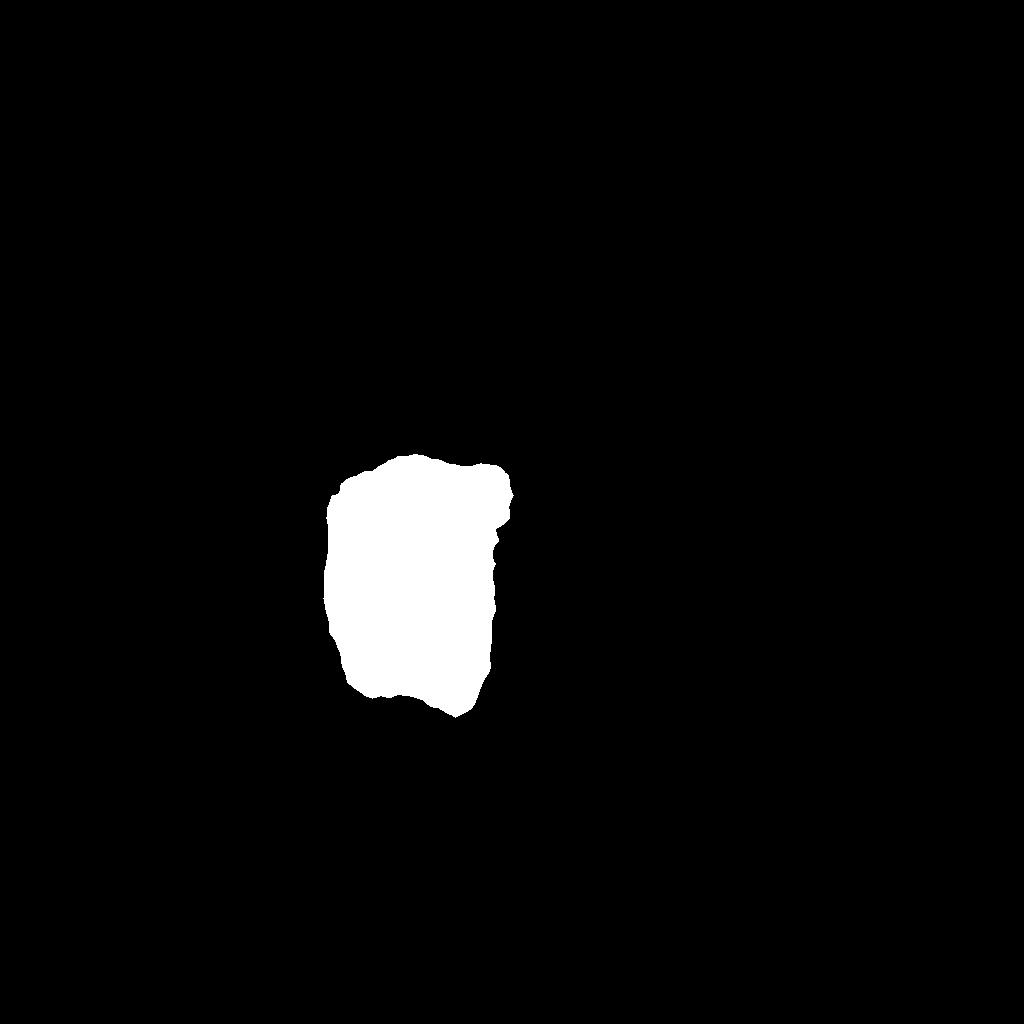
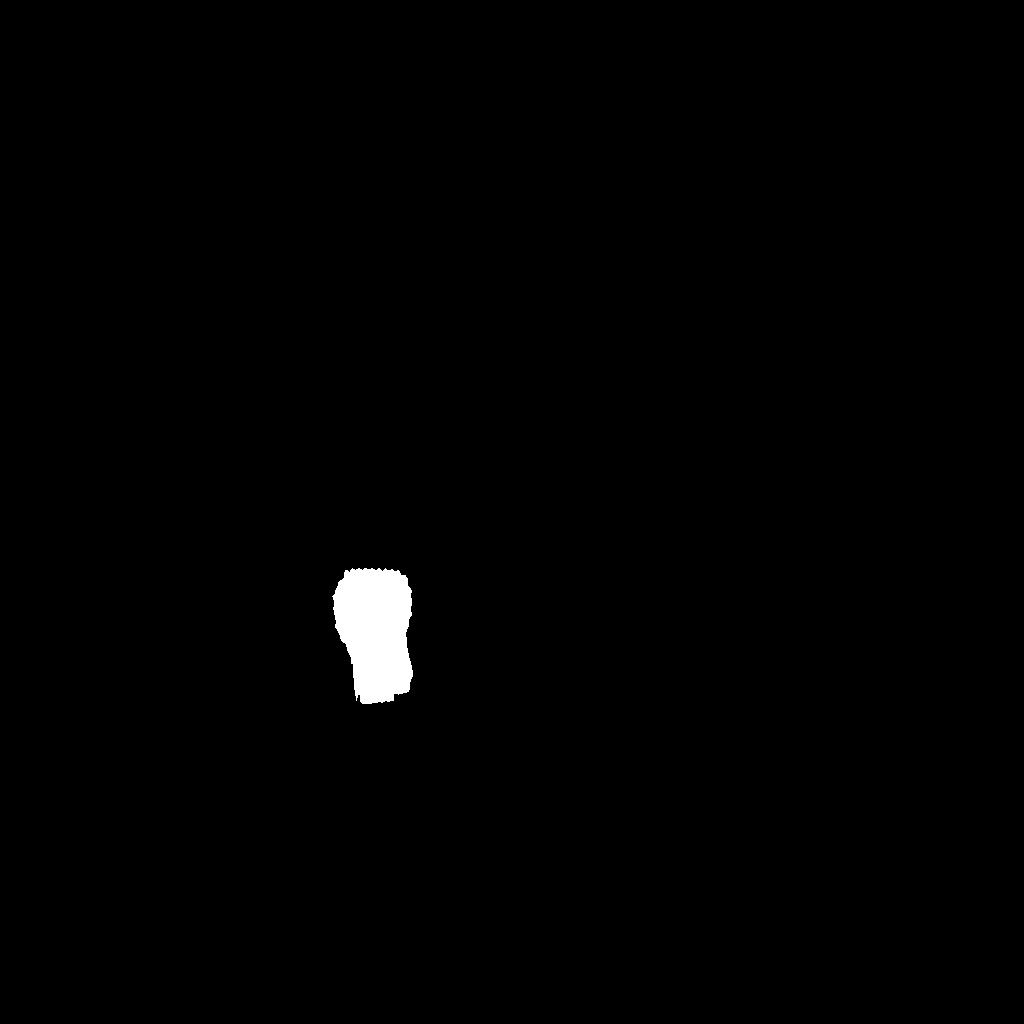
RGB fixed

Changed region(s): [[0.3125, 0.4375, 0.5, 0.7188]]

diff --git a/masks_for_lab.py b/masks_for_lab.py
@@ -102,13 +102,13 @@ if g_param.work_place == "field":
         STEPS_PER_EPOCH = 30
 
         # Skip detections with < 90% confidence
-        DETECTION_MIN_CONFIDENCE = 0.9
+        DETECTION_MIN_CONFIDENCE = 0.7
 
         DETECTION_MAX_INSTANCES = 40
 
         MASK_SHAPE = [28, 28]
-        # very importent to defince corect!!!!!
-        BACKBONE = "resnet101"
+        # very important to define correctly!!!!!
+        BACKBONE = "resnet50"
 
         BACKBONE_STRIDES = [4, 8, 16, 32, 64]
 
@@ -231,7 +231,7 @@ if g_param.work_place == "field":
     # weights_path = '/content/gdrive/My Drive/grapes data/Mask_RCNN-master/mask_rcnn_coco.h5'
     # weights_path = model.find_last()
     # print(weights_path)
-    model.load_weights('C:\Drive\Mask_RCNN-master\logs_to_import\with_santos\la\mask_rcnn_grape_0080.h5')
+    model.load_weights(r'C:\Drive\Mask_RCNN-master\logs_to_import\exp_7\mask_rcnn_grape_0080.h5')
     # train (model)
 
 
@@ -267,31 +267,20 @@ if g_param.work_place == "field":
         return ax
 
 
-    dataset_val = GrapeDataset()
-    dataset_val.load_grape('C:\Drive\Mask_RCNN-master\samples\grape\dataset', "val")
-    dataset_val.prepare()
+    # dataset_val = GrapeDataset()
+    # dataset_val.load_grape('C:\Drive\Mask_RCNN-master\samples\grape\dataset', "val")
+    # dataset_val.prepare()
 
-    print("Images: {}\nClasses: {}".format(len(dataset_val.image_ids), dataset_val.class_names))
+    # print("Images: {}\nClasses: {}".format(len(dataset_val.image_ids), dataset_val.class_names))
     classes = []
     classes.append('BG')
     classes.append('grape_cluster')
 
     import tensorflow as tf
-
     with tf.device("/cpu:0"):
         model = modellib.MaskRCNN(mode="inference", model_dir=MODEL_DIR, config=config)
 
-    # Set path to balloon weights file
-
-    # Download file from the Releases page and set its path
-    # https://github.com/matterport/Mask_RCNN/releases
-    # weights_path = "/path/to/mask_rcnn_balloon.h5"
-
-    # Or, load the last model you trained
-    # weights_path = model.find_last()
     weights_path = 'C:\Drive\Mask_RCNN-master\logs_to_import\with_santos\la\mask_rcnn_grape_0080.h5'
-
-    # Load weights
     print("Loading weights ", weights_path)
     model.load_weights(weights_path, by_name=True)
 
@@ -800,10 +789,8 @@ def ueye_take_picture_2(image_number):
     nRet = ueye.is_InquireImageMem(hCam, pcImageMemory, MemID, width, height, nBitsPerPixel, pitch)
 
     # ---------------------------------------------------------------------------------------------------------------------------------------
-
     # Continuous image display
-    if (nRet == ueye.IS_SUCCESS):
-
+    if nRet == ueye.IS_SUCCESS:
         # In order to display the image in an OpenCV window we need to...
         # ...extract the data of our image memory
         pic_array_1 = ueye.get_data(pcImageMemory, width, height, nBitsPerPixel, pitch, copy=False)
@@ -852,7 +839,8 @@ def ueye_take_picture_2(image_number):
         # plt.imsave(a_string, frame)
         # break
     # ---------------------------------------------------------------------------------------------------------------------------------------
-
+    else:
+        print("no image was taken")
     # Releases an image memory that was allocated using is_AllocImageMem() and removes it from the driver management
     ueye.is_FreeImageMem(hCam, pcImageMemory, MemID)
 
@@ -967,7 +955,7 @@ def meter_2_pixel(d, i):
 
 def print_special():
     """
-    :return: print red wernning massege if no real image was taken in N iterations
+    :return: print red warnning massege if no real image was taken in N iterations
     """
 
     print(colored("3 images in a row were not taken succsesfully", 'red'))
@@ -1085,7 +1073,7 @@ def take_picture_and_run():
 
     # fOR FIELD simulation in lab
     if g_param.work_place == "field":
-        image_path = r'C:\Drive\Mask_RCNN-master\samples\grape\dataset\test\DSC_0159.JPG'
+        image_path = r'C:\Drive\Mask_RCNN-master\samples\grape\dataset\test\DSC_0217.JPG'
 
     img = cv.imread(image_path)
     # img = cv.resize(img, (1024, 692))  # Resize image if needed
@@ -1204,6 +1192,7 @@ def take_picture_and_run():
 
     # for field usage with net
     if g_param.work_place == "field":
+        config.display()
         im0 = rgb
         im0, window, scale, padding, crop = utils.resize_image(
             im0,
@@ -1216,8 +1205,9 @@ def take_picture_and_run():
             g_param.read_write_object.save_rgb_image(im0)
         img = im0
         arr = [im0]
-        cv.imshow("check image", img)
-        cv.waitKey()
+        show_in_moved_window("check image", img)
+        # cv.imshow("check image", img)
+        # cv.waitKey()
         cv.destroyAllWindows()
         # use THE MASK R-CNN for real grapes: next 93 lines
         results = model.detect(arr, verbose=1)
@@ -1235,7 +1225,7 @@ def take_picture_and_run():
                                         title="Predictions")
         else:
             print("There was no grapes detected in the capturd image.")
-            im1 = cv.imread('C:/Drive/28_7_20/DSC_0159.JPG')
+            im1 = cv.imread(r'C:\Drive\Mask_RCNN-master\samples\grape\dataset\train\DSC_0161.JPG')
             im1 = cv.cvtColor(im1, cv.COLOR_BGR2RGB)
             im1, window, scale, padding, crop = utils.resize_image(
                 im1,
@@ -1344,10 +1334,10 @@ def take_picture_and_run():
 
     if g_param.work_place == "lab":
         display_image_with_masks(green)
-        print("boxes", boxes)
+        # print("boxes", boxes)
         # using the TB
         box_index = sort_by_and_check_for_grapes('rect_size')
-        print("box_index", box_index)
+        # print("box_index", box_index)
         add_circle_and_index(img, green)
         cv.waitKey(0)
         cv.destroyAllWindows()
@@ -1355,8 +1345,6 @@ def take_picture_and_run():
     else:
         g_param.masks_image = img
     g_param.read_write_object.write_tb()
-
-
 
 
 if __name__ == '__main__':

diff --git a/main.py b/main.py
@@ -473,7 +473,7 @@ def move_platform():
     if g_param.process_type == "record" or g_param.process_type == "work":
         print("Current platform step size: ", g_param.platform_step_size, '\n',
               "insert number in CM to change it or press Enter to continue")
-        temp_step_size = input("Enter platform step size") #TODO : UNCOMMENT
+        # temp_step_size = input("Enter platform step size") #TODO : UNCOMMENT
         if temp_step_size == 'end':
             external_signal_all_done = True
             return
@@ -654,6 +654,7 @@ if __name__ == '__main__':
         print(fg.green + "continue" + fg.rs, "\n",  "TB after detecting first grape:", "\n", g_param.TB)
         grape_ready_to_spray = TB_class.sort_by_and_check_for_grapes('leftest_first')  # 6
         input("press enter for continue to spraying")
+        g_param.masks_image = cv.cvtColor(g_param.masks_image, cv.COLOR_RGB2BGR)
         if not first_run:
             mark_sprayed_and_display()
         print(g_param.TB)

diff --git a/write_to_socket.py b/write_to_socket.py
@@ -80,7 +80,7 @@ class Send2Robot:
         if isLinear:
             self.s.send(("movel(p[" + (
                     "%f,%f,%f,%f,%f,%f" % (
-                pos[0], pos[1], pos[2], pos[3], pos[4], pos[5])) + "], a=0.5, v=0.7,r=0)" + "\n").encode(
+                pos[0], pos[1], pos[2], pos[3], pos[4], pos[5])) + "], a=0.5, v=0.7 ,r=0)" + "\n").encode(
                 "utf8"))
         else:
             self.s.send(("movej(p[" + (

diff --git a/g_param.py b/g_param.py
@@ -28,7 +28,7 @@ load- load all the date that was recorded.
 change parameters if necessary.
 """
 
-process_type = "record"  # TODO-add save of the TB before ending the program. also descriptive statistic
+process_type = "work"  # TODO-add save of the TB before ending the program. also descriptive statistic
 work_place = "field"  # lab. to know which function of image processing to use.
 
 
